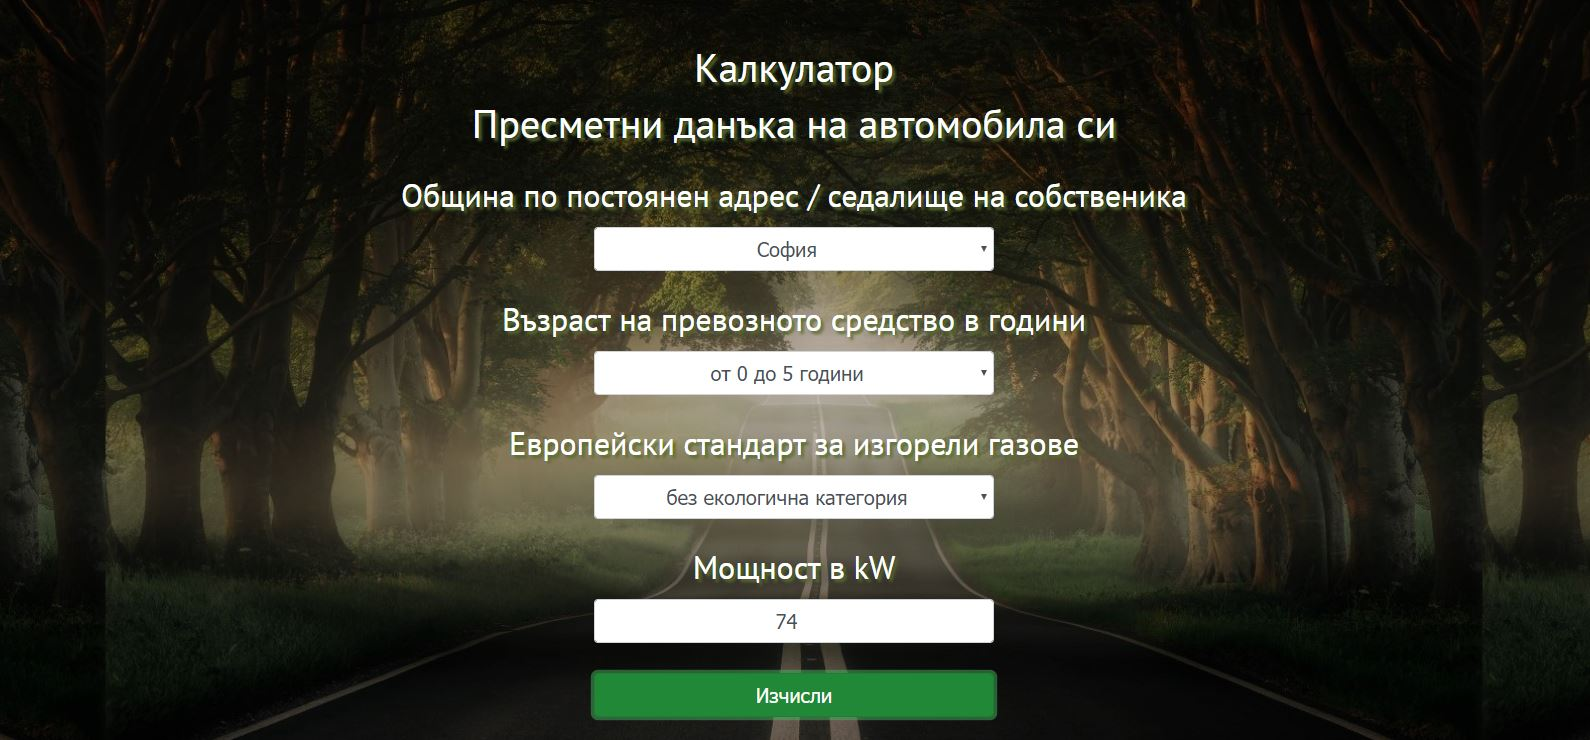
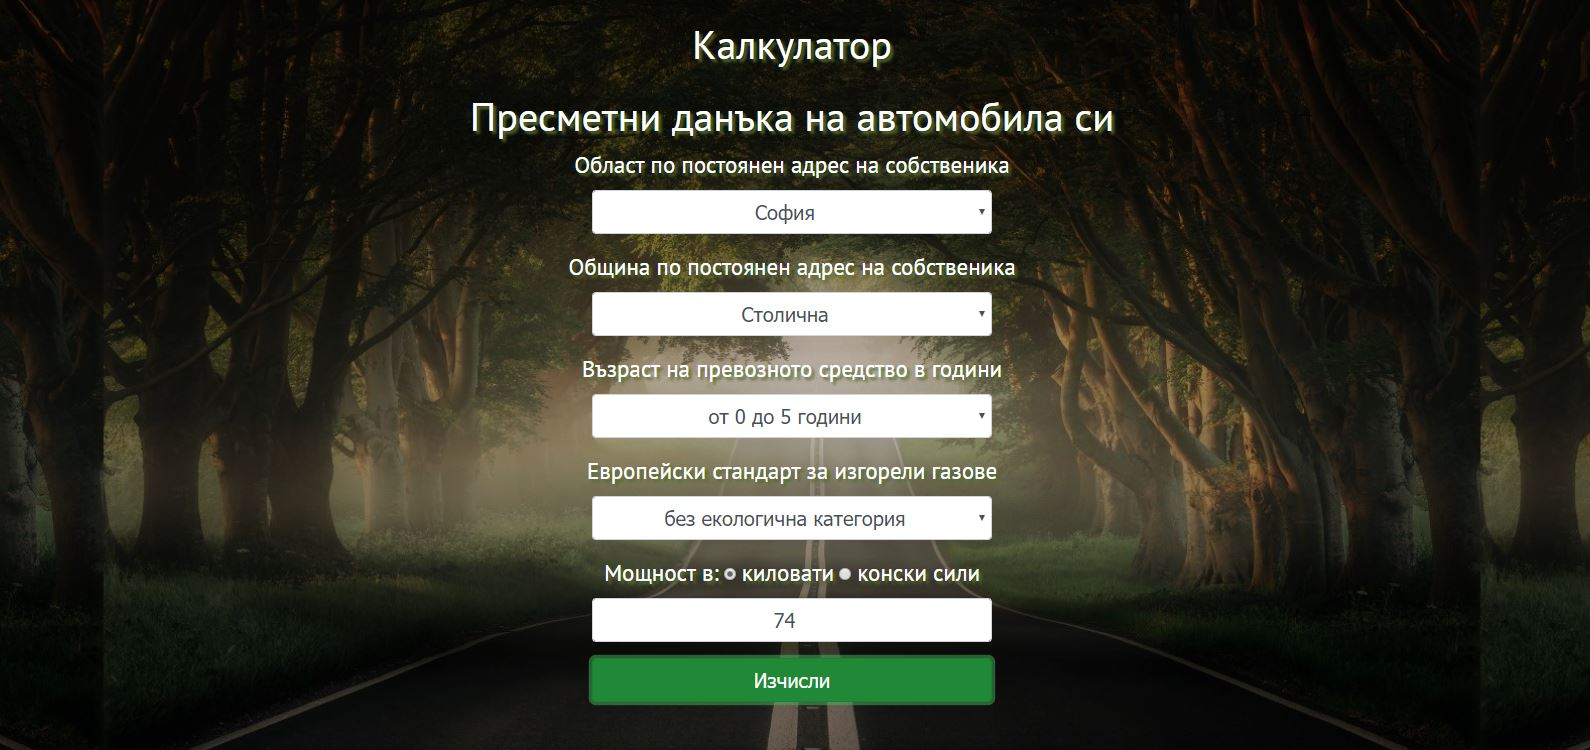
Changed font-size

diff --git a/index.css b/index.css
@@ -1,6 +1,6 @@
 body, label, select, input {
     font-family: 'PT Sans', sans-serif;
-    font-size: xx-large;
+    font-size: larger;
 }
 
 html {
